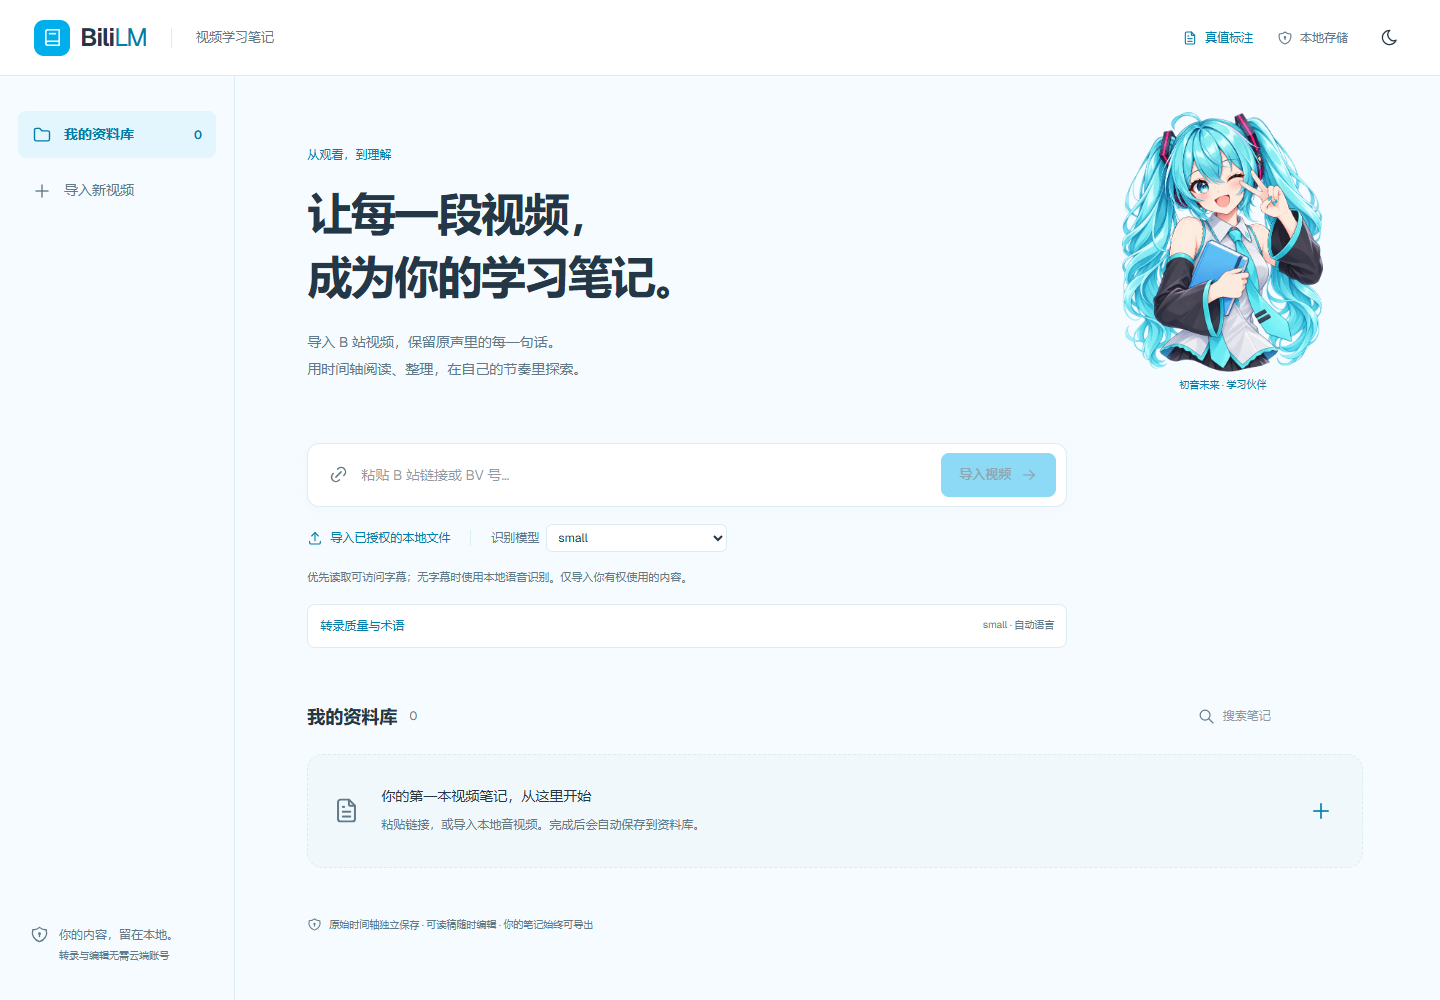
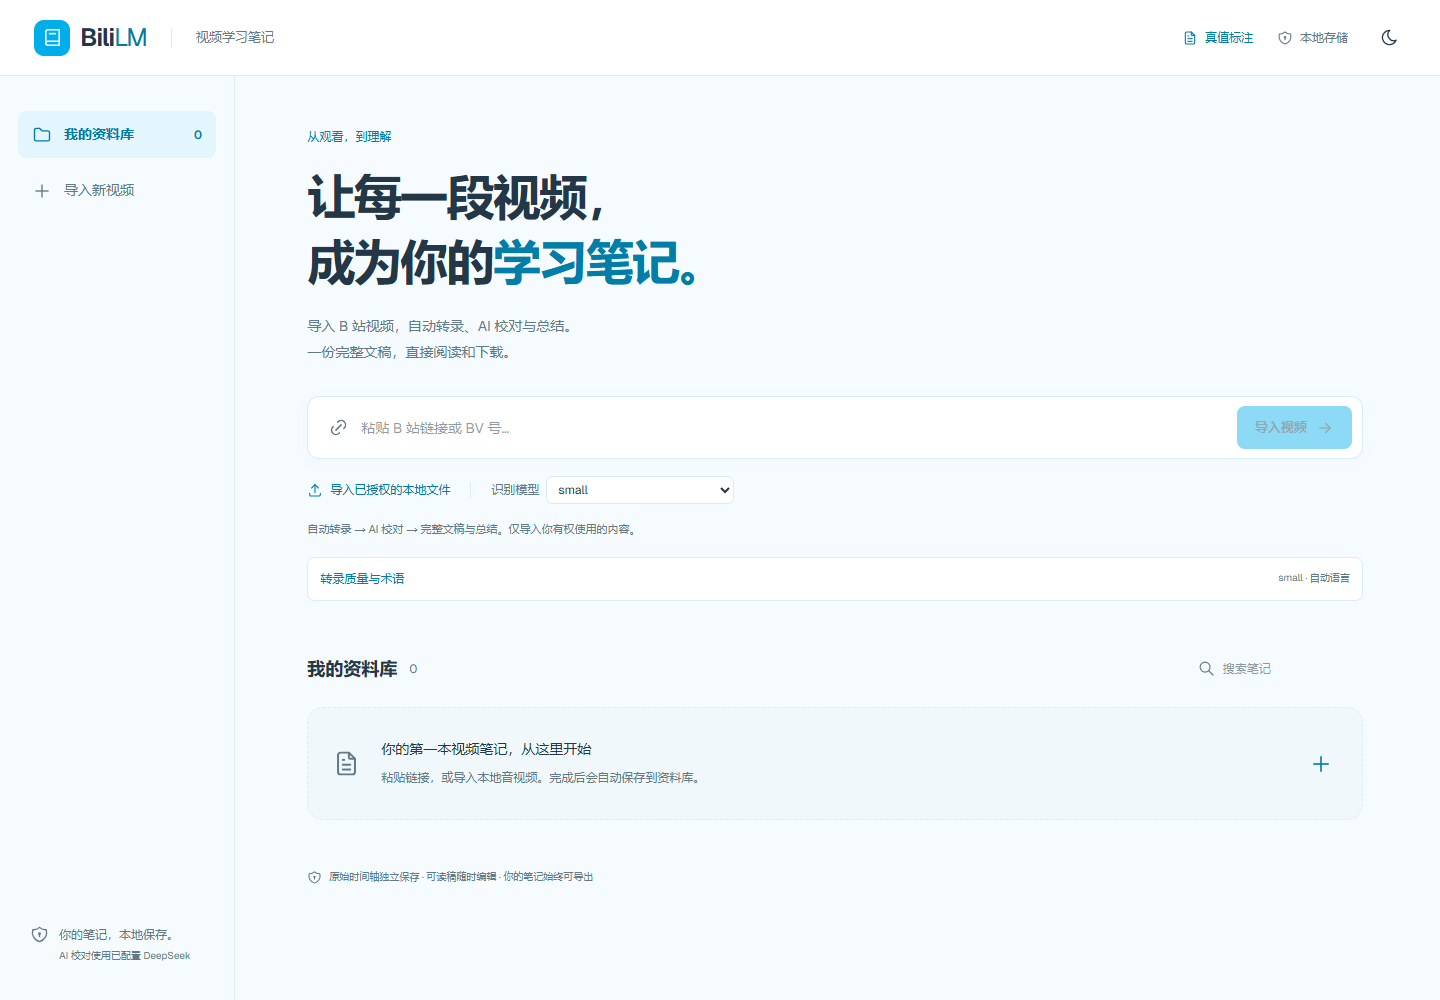
Remove homepage character and rebalance import layout

diff --git a/frontend/app/globals.css b/frontend/app/globals.css
@@ -37,22 +37,19 @@ svg { stroke-width:1.65; flex-shrink:0; }
 .home-nav button span { margin-left:auto; font-size:12px; }
 .nav-bottom { margin-top:auto; padding:28px 12px 0; display:flex; gap:10px; color:var(--muted); font-size:12px; }
 .nav-bottom p { margin:0; line-height:1.8; }.nav-bottom small { display:block; font-size:10px; }
-.home-main { padding:36px 6% 28px; max-width:1200px; width:100%; }
-.hero-top { display:grid; grid-template-columns:minmax(0,1fr) 280px; align-items:center; gap:24px; margin-bottom:26px; }
+.home-main { padding:52px 6% 28px; max-width:1200px; width:100%; }
+.hero-top { margin-bottom:30px; }
 .hero-copy { min-width:0; }
 .hero-copy .intro { margin-bottom:0; }
-.hero-top h1 { font-size:clamp(29px,2.8vw,40px); }
-.hero-character { margin:0; height:305px; background:transparent; display:flex; flex-direction:column; align-items:center; padding:0; overflow:visible; }
-.hero-character img { width:100%; height:260px; object-fit:contain; }
-.hero-character figcaption { font-size:10px; color:var(--accent); margin-top:5px; }
+.hero-emphasis { color:var(--accent); }
 .miku-avatar { width:31px; height:31px; border-radius:50%; background:var(--tint); overflow:hidden; display:block; }
 .miku-avatar img { width:80px; height:106px; max-width:none; object-fit:contain; transform:translate(-24px,-20px); }
 .assistant-symbol.miku-welcome { height:270px; width:100%; background:none; margin-bottom:22px; }
 .miku-welcome img { height:270px; width:min(100%,245px); object-fit:contain; }
 .eyebrow { color:var(--accent); font-size:12px; margin-bottom:19px; }
-.import-section h1 { font-weight:560; letter-spacing:-1.6px; font-size:clamp(30px,3.5vw,45px); line-height:1.4; margin:0 0 20px; }
+.import-section h1 { font-weight:600; letter-spacing:-1.6px; font-size:clamp(34px,3.5vw,48px); line-height:1.35; margin:0 0 18px; }
 .intro { font-size:14px; color:var(--muted); line-height:1.9; margin:0 0 30px; }
-.import-box { display:flex; align-items:center; gap:12px; padding:9px 10px 9px 20px; background:var(--paper); border:1px solid var(--line); border-radius:12px; max-width:760px; box-shadow:0 3px 12px #77776a08; }
+.import-box { display:flex; align-items:center; gap:12px; padding:9px 10px 9px 20px; background:var(--paper); border:1px solid var(--line); border-radius:12px; width:100%; box-shadow:0 3px 12px #77776a08; }
 .input-symbol { color:var(--muted); }
 .import-box input { flex:1; min-width:0; background:none; border:0; height:43px; color:var(--ink); outline:0; font-size:14px; }
 .import-box:focus-within { border-color:var(--accent); }
@@ -86,10 +83,8 @@ progress { accent-color:var(--accent); width:90px; height:5px; }
 @media(min-width:1500px) { .workspace-grid { grid-template-columns:275px minmax(450px,1fr) 350px; }.segment p,.readable p { font-size:15px; } }
 @media(max-width:1150px) { .workspace-grid { grid-template-columns:210px minmax(300px,1fr); height:auto; }.source-panel,.transcript-panel { height:700px; }.assistant-panel { grid-column:1/-1; min-height:350px; }.assistant-empty { margin-top:0; }.chat-scroll { max-height:500px; }.home-main { padding-left:6%; padding-right:6%; }.home-layout { grid-template-columns:210px minmax(0,1fr); } }
 @media(max-width:767px) { .topbar { height:65px; padding:0 18px; gap:15px; }.brand { font-size:22px; }.app-label,.header-divider,.local-label { display:none; }.home-layout { display:block; }.home-nav { border-right:0; flex-direction:row; padding:15px 18px 0; gap:8px; }.home-nav>button { font-size:12px; padding:10px 12px; }.nav-bottom { display:none; }.home-main { padding:35px 20px 24px; }.import-section h1 { letter-spacing:-.6px; font-size:30px; }.intro { font-size:12px; }.import-box { padding:7px 8px 7px 12px; gap:7px; }.import-box input { font-size:12px; }.import-box .primary { padding:12px 10px; gap:5px; font-size:11px; }.import-box .primary svg { display:none; }.import-options { gap:10px; flex-wrap:wrap; }.import-options .text-button { font-size:11px; }.import-hint { font-size:10px; }.library-section { margin-top:40px; }.section-heading h2 { font-size:16px; }.search-box input { width:100px; }.empty-library { padding:24px 17px; gap:14px; }.empty-library h3 { font-size:12px; }.empty-library p { font-size:11px; }.empty-library .icon-button { display:none; }.library-grid { grid-template-columns:repeat(auto-fill,minmax(200px,1fr)); gap:16px; }.home-footer { font-size:9px; }.workspace { padding:0 12px 16px; }.workspace-heading { height:85px; gap:8px; }.workspace-heading h1 { font-size:14px; }.workspace-heading>.secondary { font-size:0; padding:9px; }.workspace-grid { display:flex; flex-direction:column; gap:12px; min-height:0; }.source-panel { height:auto; max-height:300px; }.source-detail { padding:14px; }.source-detail>img,.source-foot,.chapter-heading,.chapters { display:none; }.source-detail>small { display:inline-block; margin:8px 15px 0 0; }.transcript-panel { height:650px; }.assistant-panel { min-height:400px; }.panel-heading { padding:0 16px; }.transcript-controls { padding:12px 14px; }.transcript-scroll { padding:8px 15px 24px; }.segment { gap:10px; grid-template-columns:40px minmax(0,1fr); }.segment p { font-size:13px; }.transcript-search { margin:0 14px 8px; }.job-actions { flex-direction:column; }.queue-strip progress { width:45px; } }
-@media(max-width:1100px) and (min-width:768px) { .hero-top { grid-template-columns:minmax(0,1fr) 190px; gap:16px; }.hero-character { height:265px; }.hero-character img { height:220px; }.hero-top h1 { font-size:29px; } }
-@media(max-width:767px) { .hero-top { grid-template-columns:minmax(0,1fr) 132px; gap:10px; margin-bottom:22px; }.hero-top h1 { font-size:23px; line-height:1.55; letter-spacing:-.5px; }.hero-copy .intro { font-size:11px; line-height:1.8; }.hero-copy .eyebrow { margin-bottom:12px; font-size:10px; }.hero-character { height:185px; padding:5px 2px; border-radius:12px; }.hero-character img { height:155px; }.hero-character figcaption { font-size:8px; }.hero-copy .mobile-hide { display:none; }.assistant-symbol.miku-welcome { height:260px; }.miku-welcome img { height:260px; } }
-@media(max-width:380px) { .hero-top { grid-template-columns:minmax(0,1fr) 112px; }.hero-top h1 { font-size:20px; }.hero-character { height:170px; }.hero-character img { height:140px; } }
 .quality-controls { margin-top:18px; max-width:760px; border:1px solid var(--line); border-radius:8px; background:var(--paper); font-size:12px; }
+.import-section>.quality-controls { max-width:none; }
 .quality-controls summary { padding:12px; display:flex; justify-content:space-between; gap:10px; color:var(--accent); }.quality-controls summary span { color:var(--muted); font-size:10px; }
 .quality-grid { padding:0 12px 12px; display:grid; grid-template-columns:1fr 1fr; gap:12px; }.quality-grid>label { display:flex; flex-direction:column; gap:6px; min-width:0; }.quality-grid input:not([type=checkbox]),.quality-grid textarea { width:100%; border:1px solid var(--line); border-radius:6px; padding:7px; background:var(--soft); color:var(--ink); font-size:11px; }.quality-grid select { max-width:100%; }.quality-grid textarea { min-height:65px; resize:vertical; }.quality-wide { grid-column:1/-1; }.quality-grid>.quality-check { flex-direction:row; align-items:center; font-size:10px; }.quality-note { font-size:10px; color:var(--muted); line-height:1.8; margin:0; }
 .run-selector { display:flex; align-items:center; justify-content:space-between; gap:12px; padding:12px 20px; font-size:10px; }.run-selector label { min-width:0; display:flex; align-items:center; gap:8px; }.run-selector select { min-width:0; max-width:220px; }.workbench-settings { padding:0 18px; max-height:250px; overflow:auto; flex-shrink:0; }.workbench-settings .quality-controls { margin:0; }.audio-review { padding:0 20px 10px; display:flex; flex-direction:column; gap:5px; }.audio-review audio { width:100%; height:35px; }.audio-review a { color:var(--accent); font-size:10px; }.audio-missing { color:var(--muted); font-size:10px; padding:0 20px; line-height:1.8; margin:0 0 8px; }.version-job { padding:8px 20px; font-size:10px; color:var(--accent); background:var(--tint); overflow-wrap:anywhere; }.version-job button { margin-left:8px; }
@@ -178,3 +173,10 @@ progress { accent-color:var(--accent); width:90px; height:5px; }
 .final-workbench .toolbar { white-space:nowrap; gap:12px; }
 .final-workbench .export-menu summary { width:auto; font-size:11px; padding:0; }
 .final-download[aria-disabled=true] { opacity:.5; pointer-events:none; }
+@media(max-width:767px) {
+  .hero-top { margin-bottom:24px; }
+  .hero-copy .eyebrow { font-size:11px; margin-bottom:15px; }
+  .hero-copy .intro { font-size:13px; line-height:1.9; }
+  .hero-copy .mobile-hide { display:none; }
+  .import-section h1 { font-size:clamp(28px,7.4vw,36px); line-height:1.4; letter-spacing:-.7px; }
+}

diff --git a/frontend/app/page.tsx b/frontend/app/page.tsx
@@ -140,7 +140,7 @@ export default function Page() {
     {groundTruthOpen ? <GroundTruthWorkspace onExit={() => navigate(null)} onDirty={setVersionDirty} onError={setError} onMessage={setNotice} /> : !selected ? <div className="home-layout">
       <nav className="home-nav" aria-label="主导航"><button className="nav-active"><IconFolder size={20} /> 我的资料库 <span>{library.length}</span></button><button onClick={() => document.getElementById('source-input')?.focus()}><IconPlus size={20} /> 导入新视频</button><div className="nav-bottom"><IconShieldLock size={19} /><p>你的笔记，本地保存。<small>AI 校对使用已配置 DeepSeek</small></p></div></nav>
       <main className="home-main">
-        <section className="import-section"><div className="hero-top"><div className="hero-copy"><div className="eyebrow">从观看，到理解</div><h1>让每一段视频，<br />成为你的学习笔记。</h1><p className="intro">导入 B 站视频，保留原声里的每一句话。<br className="mobile-hide" />自动转录、AI 校对与总结，直接阅读和下载。</p></div><figure className="hero-character"><img src="/images/miku-bust-v3.png" alt="初音未来微笑着抱书的透明半身插画" width={1254} height={1254} fetchPriority="high" /><figcaption>初音未来 · 学习伙伴</figcaption></figure></div>
+        <section className="import-section"><div className="hero-top"><div className="hero-copy"><div className="eyebrow">从观看，到理解</div><h1>让每一段视频，<br />成为你的<span className="hero-emphasis">学习笔记。</span></h1><p className="intro">导入 B 站视频，自动转录、AI 校对与总结。<br className="mobile-hide" />一份完整文稿，直接阅读和下载。</p></div></div>
           <form className="import-box" onSubmit={e => { e.preventDefault(); void importSource(); }}><IconLink className="input-symbol" size={21} /><input id="source-input" aria-label="B站视频链接或 BV 号" placeholder="粘贴 B 站链接或 BV 号…" required value={source} onChange={e => setSource(e.target.value)} /><button className="primary" disabled={busy || !source.trim()}>{busy ? '正在导入…' : '导入视频'}<IconArrowRight size={18} /></button></form>
           <div className="import-options"><button className="text-button" disabled={busy} onClick={() => upload.current?.click()}><IconUpload size={16} /> 导入已授权的本地文件</button><span className="option-divider" /><label>识别模型 <select aria-label="识别模型" value={model} onChange={e => { setError(''); setModel(e.target.value); setSettings({ ...settings, backend: e.target.value === 'SenseVoiceSmall' ? 'sensevoice' : 'faster-whisper', allow_model_download: false }); }}>{['tiny','base','small','medium','large-v3','turbo','SenseVoiceSmall'].map(m => <option key={m} value={m}>{m === 'SenseVoiceSmall' ? 'SenseVoiceSmall · 可选后端' : m}</option>)}</select></label></div>
           <div className="import-hint">自动转录 → AI 校对 → 完整文稿与总结。仅导入你有权使用的内容。</div>

diff --git a/README.md b/README.md
@@ -6,9 +6,9 @@
 
 ![BiliLM 宣传海报](docs/assets/bililm-poster.png)
 
-> **公开预览版 v0.3.0** · Windows 11 本机使用 · 中文界面。日常工作流已验证；尚无人工真值评测结果，不承诺识别准确率。上图为宣传示意。与 Bilibili、NotebookLM、DeepSeek 无官方隶属关系。
+> **公开预览版 v0.3.1** · Windows 11 本机使用 · 中文界面。日常工作流已验证；尚无人工真值评测结果，不承诺识别准确率。上图为宣传示意。与 Bilibili、NotebookLM、DeepSeek 无官方隶属关系。
 
-[下载预览版](https://github.com/WeipingWu2023/BiliLM/releases/tag/v0.3.0) · [从零使用教程](docs/GETTING-STARTED-ZH.md) · [常见问题](docs/TROUBLESHOOTING.md) · [发布审计](docs/RELEASE-AUDIT.md) · [参与贡献](CONTRIBUTING.md)
+[下载预览版](https://github.com/WeipingWu2023/BiliLM/releases/tag/v0.3.1) · [从零使用教程](docs/GETTING-STARTED-ZH.md) · [常见问题](docs/TROUBLESHOOTING.md) · [发布审计](docs/RELEASE-AUDIT.md) · [参与贡献](CONTRIBUTING.md)
 
 <details>
 <summary>查看真实界面（空资料库，不含私人来源）</summary>

diff --git a/CHANGELOG.md b/CHANGELOG.md
@@ -1,5 +1,10 @@
 # 更新记录
 
+## v0.3.1（公开预览）
+
+- 移除首页右侧人物插画，改为单列标题与等宽导入区域，保留 B 站蓝和深浅色主题。
+- 调整标题层级、顶部留白和手机排版，更新空资料库截图；宽屏、手机、标注页回归与前端类型检查通过。
+
 ## v0.3.0（公开预览）
 
 - 默认流程改为“导入 → 自动转录 → AI 校对与复查 → 最终文稿”，无需开启校对或接受建议。
